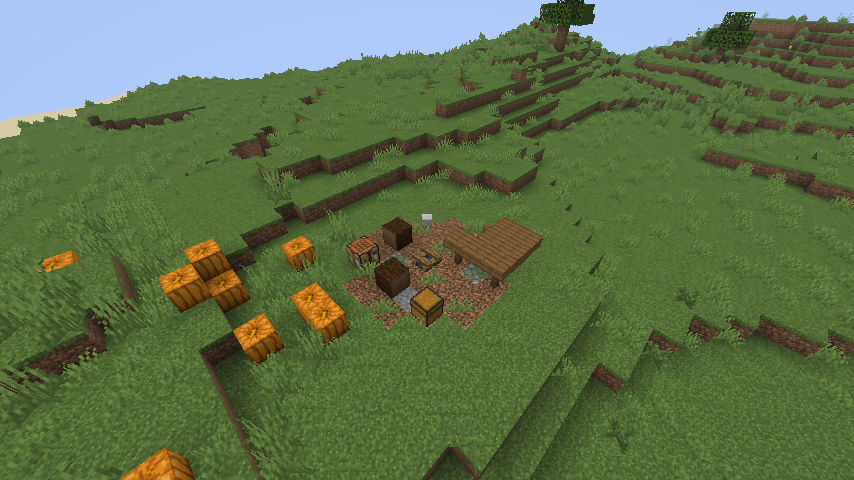
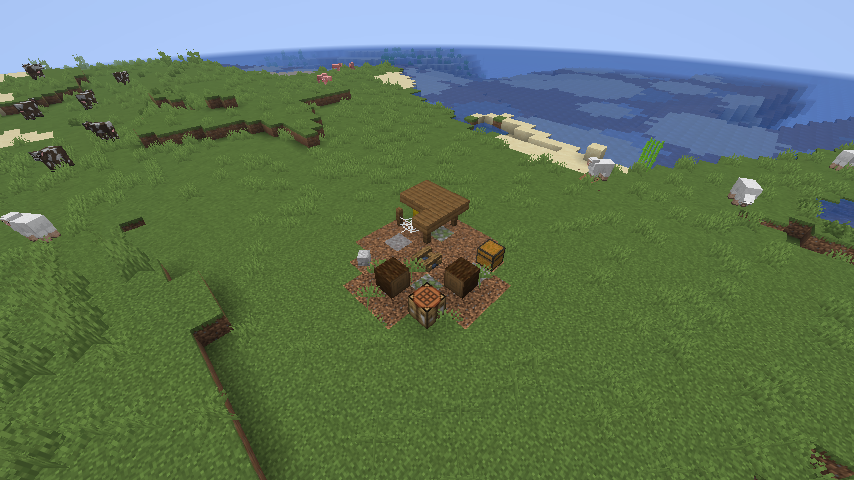
Show a camp from the fixed placement in the pictures

diff --git a/docs/modrinth/listing.md b/docs/modrinth/listing.md
@@ -47,7 +47,7 @@ Upload in this order; make the first one the featured image.
 |---|---|---|
 | `gallery/1-forgotten-cache.png` | Forgotten cache | A forgotten cache marked by its column of particles. |
 | `gallery/2-abandoned-camp-forest.png` | Abandoned camp in a birch forest | A naturally generated camp: lean-to, bedroll and what the traveller left behind. |
-| `gallery/3-abandoned-camp-hillside.png` | Abandoned camp on a hillside | Fire pit, log seats, crafting table and the supply chest. |
+| `gallery/3-abandoned-camp-plains.png` | Abandoned camp on the plains | Fire pit, log seats, crafting table and the supply chest. |
 
 ## Version
 

diff --git a/README.md b/README.md
@@ -13,7 +13,7 @@ replacing vanilla survival.
 
 | Abandoned camp | Forgotten cache |
 |----------------|-----------------|
-| ![An abandoned camp on a grassy hillside](docs/images/abandoned_camp.png) | ![A forgotten cache marked by a column of particles](docs/images/forgotten_cache.png) |
+| ![An abandoned camp on the plains](docs/images/abandoned_camp.png) | ![A forgotten cache marked by a column of particles](docs/images/forgotten_cache.png) |
 
 See [CHANGELOG.md](CHANGELOG.md) for the full list of features and known limitations.
 
